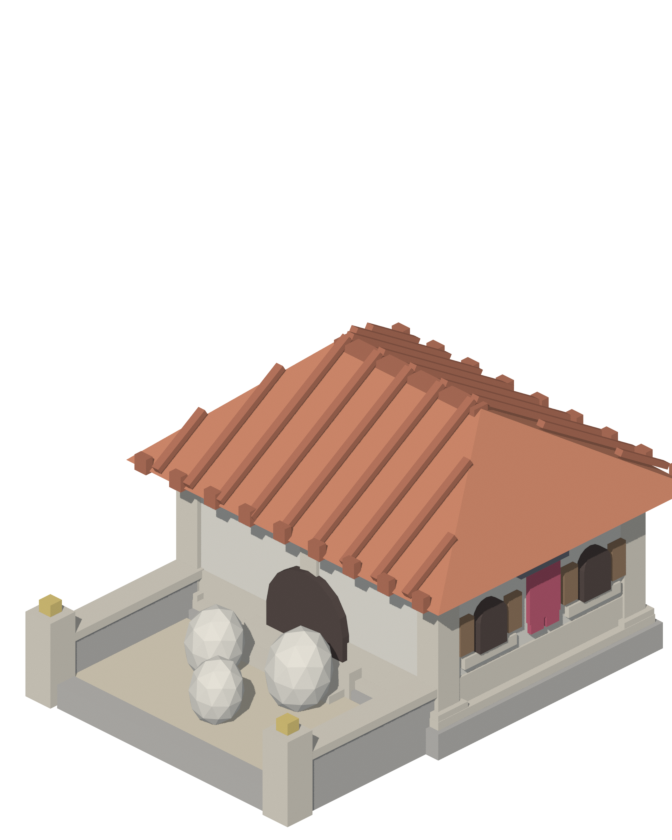
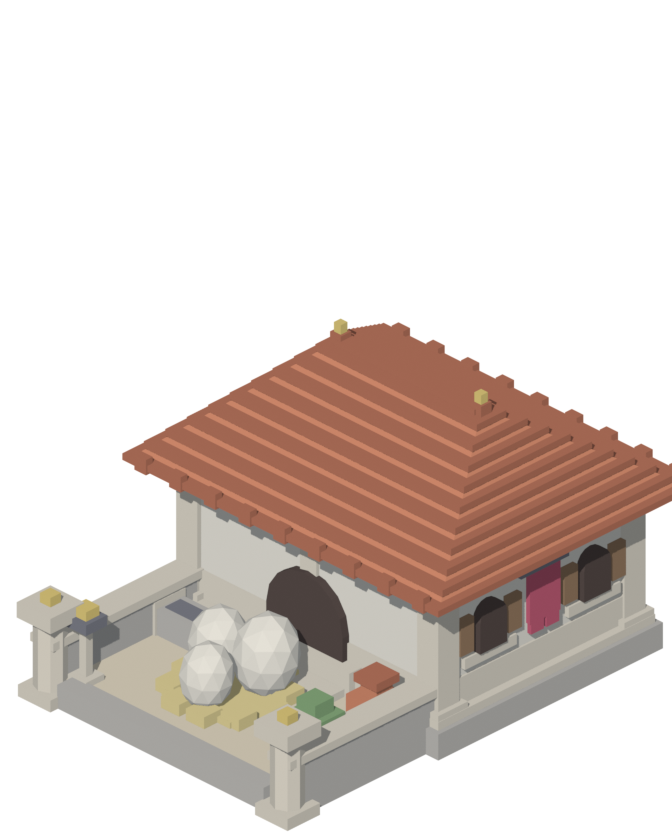
The roof, rebuilt as courses; and clutter that has a job
The ribs running down the slope were wrong in a way that only shows on a hip
roof. A hip's slope is a trapezoid, so every rib had to stop at a different
height, and their cut ends stood proud of the hip line in mid air — a staircase
of snapped sticks laid over the tiles. Shortening each rib was arithmetically
right and visually broken.

Courses parallel to the eaves have no ends to leave hanging. Each course is the
roof's own horizontal cross-section at that height, so it follows the hips
exactly, for free, at any footprint and any ridge fraction. That is the
difference between a rule that happens to work on this building and one that
will still work on the next thirty.

New parts: acroterion (ridge-end ornaments), column (eight-sided — six reads as
a post, sixteen leaves the art style), pot, plant, trough, brazier, nest,
plaque, pergola.

The pergola is in the kit and NOT on this building. It fitted the court and
covered the eggs and the doorway both, and the eggs are the entire reason this
building is recognisable at a glance. More detail is worth having exactly as
long as it costs nothing that already reads; past that it is subtraction wearing
the clothes of addition. Same reason the brazier moved to the gate: anything
tall on the near-left sits directly on the line from camera to arch.

The brazier is also stone now except for its bowl. Iron is the coldest colour in
the palette and a whole brazier of it read as a blue machine parked in a warm
[…]

diff --git a/tool/blender/render_building.py b/tool/blender/render_building.py
@@ -71,6 +71,8 @@ PALETTE = {
     'dark': (0.11, 0.08, 0.07),        # an opening, read as depth
     'banner': (0.62, 0.13, 0.20),      # the one saturated cloth per building
     'sand': (0.84, 0.74, 0.56),        # trodden ground inside a court
+    'straw': (0.86, 0.72, 0.34),       # bedding, thatch, nests
+    'leaf': (0.28, 0.45, 0.22),        # the only green; use it sparingly
 }
 
 
@@ -248,43 +250,139 @@ def wall_box(name, x, y, z, along, thick, height, material, facing='y'):
 
 
 def pantiles(name, x, y, z, sx, sy, h, ridge=0.45, key='tile_dark',
-             overhang=0.3, pitch=0.16):
-    """Tile courses running down a hip roof's two long slopes.
+             overhang=0.3, courses=10, lip=0.04):
+    """Tile courses stepping up a hip roof, parallel to the eaves.
 
     The roof is the largest surface on any of these buildings, and flat it is a
-    plate of colour. Ribbed, it is a roof.
+    plate of colour.
 
-    Each rib is SHORTENED by how far out it sits, because a hip roof's slope is
-    a trapezoid: a rib of full length out near the corner would hang off the
-    side. Solving for that per rib is also what makes the tiling converge
-    towards the ridge the way a real hip roof does.
+    The first attempt ran ribs DOWN the slope, the way a real pantile does, and
+    it looked broken: on a hip the slope is a trapezoid, so each rib had to stop
+    at a different height, and their ends stood proud of the hip line in mid
+    air — a staircase of snapped sticks. Courses have no ends to leave hanging.
+    Each one is the roof's own horizontal cross-section at that height, so it
+    follows the hips exactly, for free, at any footprint.
     """
     sx += overhang * 2
     sy += overhang * 2
-    r = sx * ridge / 2
-    run = sy / 2
-    length = math.hypot(run, h)
-    alpha = math.atan2(h, run)                 # the pitch, off horizontal
+    long_y = sy >= sx
+    r = (sy if long_y else sx) * ridge / 2
 
-    n = max(3, int(sx / pitch) // 2)
-    for i in range(n + 1):
-        rx = -sx / 2 + sx * i / n
-        # How far up this rib may go before the trapezoid narrows past it.
-        span = sx / 2 - r
-        frac = 1.0 if span <= 0 else ((sx / 2 - abs(rx)) / span)
-        frac = max(0.0, min(1.0, frac))
-        if frac < 0.05:
-            continue
-        ell = length * frac
-        for sign in (-1, 1):
-            ob = box(f'{name}_{i}_{sign}', 0, 0, 0,
-                     pitch * 0.42, ell, 0.05, mat(key))
-            ob.rotation_euler = (sign * alpha, 0, 0)
-            ob.location = (
-                x + rx,
-                y + sign * (-sy / 2 + (ell / 2) * math.cos(alpha)),
-                z + (ell / 2) * math.sin(alpha) + 0.03,
-            )
+    for i in range(courses):
+        f = i / courses
+        # The roof's cross-section at this height: it narrows to the ridge on
+        # the short axis and to the ridge's own length on the long one.
+        if long_y:
+            hx = (sx / 2) * (1 - f)
+            hy = sy / 2 - (sy / 2 - r) * f
+        else:
+            hx = sx / 2 - (sx / 2 - r) * f
+            hy = (sy / 2) * (1 - f)
+        if hx <= 0.06 or hy <= 0.06:
+            break
+        box(f'{name}_{i}', x, y, z + f * h,
+            2 * hx + lip, 2 * hy + lip, 0.055, mat(key))
+
+
+def acroterion(name, x, y, z, sx, sy, ridge=0.45, overhang=0.3, key='gold'):
+    """The ornaments capping the ends of a ridge. Two of them, and the roofline
+    stops just ending and starts finishing."""
+    sx += overhang * 2
+    sy += overhang * 2
+    long_y = sy >= sx
+    r = (sy if long_y else sx) * ridge / 2
+    for sign in (-1, 1):
+        ax = x if long_y else x + sign * r
+        ay = y + sign * r if long_y else y
+        box(f'{name}_stem_{sign}', ax, ay, z - 0.06, 0.11, 0.11, 0.12,
+            mat('tile_dark'))
+        box(f'{name}_{sign}', ax, ay, z + 0.06, 0.07, 0.07, 0.08, mat(key))
+
+
+def column(name, x, y, z, r, h, key='travertine', sides=8):
+    """A round column, faceted. Eight sides: at six it reads as a post, at
+    sixteen the facets stop showing and it leaves the art style."""
+    bpy.ops.mesh.primitive_cylinder_add(vertices=sides, radius=r, depth=h,
+                                        location=(x, y, z + h / 2))
+    ob = bpy.context.object
+    ob.name = name
+    ob.data.materials.append(mat(key))
+    for p in ob.data.polygons:
+        p.use_smooth = False
+    box(f'{name}_base', x, y, z, r * 2.6, r * 2.6, 0.1, mat(key))
+    box(f'{name}_cap', x, y, z + h - 0.11, r * 2.7, r * 2.7, 0.13, mat(key))
+    return ob
+
+
+def pot(name, x, y, z, r=0.16, h=0.42, key='tile'):
+    """An amphora, in four blocks. Clutter with a job: it is the only thing in
+    the kit that says PEOPLE work here."""
+    box(f'{name}_foot', x, y, z, r * 0.9, r * 0.9, 0.05, mat('tile_dark'))
+    box(f'{name}_belly', x, y, z + 0.04, r * 2, r * 2, h * 0.55, mat(key))
+    box(f'{name}_neck', x, y, z + 0.04 + h * 0.55, r * 1.05, r * 1.05, h * 0.3,
+        mat(key))
+    box(f'{name}_rim', x, y, z + 0.02 + h * 0.85, r * 1.5, r * 1.5, 0.07,
+        mat('tile_dark'))
+
+
+def brazier(name, x, y, z, h=0.62, key='iron'):
+    """A standing fire. The only light source in the palette, and the reason a
+    doorway at dusk reads as somewhere you would actually walk in."""
+    # Stone stem, iron bowl. Iron is the coldest colour in the palette, and a
+    # whole brazier of it reads as a blue machine standing in a warm courtyard.
+    # Keep it to the one part that has to look like metal.
+    box(f'{name}_foot', x, y, z, 0.19, 0.19, 0.05, mat('travertine'))
+    box(f'{name}_stem', x, y, z + 0.04, 0.07, 0.07, h, mat('travertine'))
+    box(f'{name}_bowl', x, y, z + h, 0.22, 0.22, 0.09, mat(key))
+    box(f'{name}_fire', x, y, z + h + 0.07, 0.14, 0.14, 0.1, mat('gold'))
+
+
+def pergola(name, x, y, z, sx, sy, h=1.0, posts=2, key='oak'):
+    """Posts and cross-beams over a yard. Roofless on purpose: it shades the
+    court without hiding what is IN the court, which is the whole point of
+    having an open court in the first place."""
+    for sxs in (-1, 1):
+        for sys in (-1, 1):
+            box(f'{name}_post_{sxs}_{sys}', x + sxs * sx / 2, y + sys * sy / 2,
+                z, 0.14, 0.14, h, mat(key))
+    for sys in (-1, 1):
+        box(f'{name}_beam_{sys}', x, y + sys * sy / 2, z + h - 0.1,
+            sx + 0.4, 0.11, 0.12, mat(key))
+    for i in range(posts * 2 + 1):
+        bx = x - sx / 2 + sx * i / (posts * 2)
+        box(f'{name}_rafter_{i}', bx, y, z + h, 0.08, sy + 0.5, 0.08,
+            mat(key))
+
+
+def nest(name, x, y, z, r, key='straw'):
+    """A ring of straw. Eggs lying on bare ground are eggs someone dropped."""
+    n = 10
+    for i in range(n):
+        a = 2 * math.pi * i / n
+        box(f'{name}_{i}', x + r * math.cos(a), y + r * math.sin(a), z,
+            0.19, 0.19, 0.1, mat(key))
+    box(f'{name}_bed', x, y, z, r * 1.7, r * 1.7, 0.05, mat(key))
+
+
+def plant(name, x, y, z, r=0.13, key='leaf'):
+    """A potted shrub. Green is the rarest colour in the palette on purpose —
+    two of these read as tended, five read as a garden centre."""
+    box(f'{name}_pot', x, y, z, r * 2, r * 2, 0.18, mat('tile'))
+    box(f'{name}_rim', x, y, z + 0.16, r * 2.3, r * 2.3, 0.05,
+        mat('tile_dark'))
+    box(f'{name}_bush', x, y, z + 0.2, r * 2.4, r * 2.4, 0.2, mat(key))
+    box(f'{name}_top', x, y, z + 0.38, r * 1.5, r * 1.5, 0.14, mat(key))
+
+
+def trough(name, x, y, z, sx, sy, key='ashlar'):
+    """A stone water trough. Livestock needs drinking, and a building that
+    shows the chore reads as used rather than as displayed."""
+    box(f'{name}_body', x, y, z, sx, sy, 0.22, mat(key))
+    box(f'{name}_water', x, y, z + 0.18, sx - 0.12, sy - 0.12, 0.05,
+        mat('iron'))
+    for sign in (-1, 1):
+        box(f'{name}_end_{sign}', x + sign * sx / 2, y, z,
+            0.07, sy + 0.04, 0.28, mat('travertine'))
 
 
 def dentils(name, x, y, z, sx, sy, key='travertine', pitch=0.2, size=0.09):
@@ -452,10 +550,14 @@ def breeding_hut(w, h):
         0.17, 0.1, 0.2, mat('travertine'))
     steps('steps', 0, face_y - 0.06, 0.0, door_w + 0.3)
 
+    box('plaque', 0, face_y - 0.01, 0.22 + door_h + 0.2, 0.52, 0.06, 0.18,
+        mat('travertine'))
+
     roof_z = 0.22 + wall_h
     hip_roof('roof', 0, body_y, roof_z, body_w, body_d, 0.85)
     pantiles('tiles', 0, body_y, roof_z, body_w, body_d, 0.85)
     antefixes('antefix', 0, body_y, roof_z - 0.02, body_w + 0.6, body_d + 0.6)
+    acroterion('acro', 0, body_y, roof_z + 0.85, body_w, body_d)
 
     # Corner pilasters — travertine, not timber. Timber corners drag the whole
     # thing back to a Northern hut; stone corners under a tile roof are Roman.
@@ -493,17 +595,33 @@ def breeding_hut(w, h):
             0.24, court_d, 0.07, mat('travertine'))
     front_y = court_y - court_d / 2 + 0.09
     for sx in (-1, 1):
-        box('gatepost', sx * (court_w / 2 - 0.09), front_y, 0,
-            0.26, 0.26, 0.72, mat('travertine'))
-        box('finial', sx * (court_w / 2 - 0.09), front_y, 0.72,
-            0.12, 0.12, 0.1, mat('gold'))
-    # The threshold between the posts stays LOW: the eggs are what the building
-    # says about itself, and nothing may stand in front of them.
+        column(f'gatecol{sx}', sx * (court_w / 2 - 0.09), front_y, 0,
+               0.13, 0.78)
+        box(f'finial{sx}', sx * (court_w / 2 - 0.09), front_y, 0.78,
+            0.11, 0.11, 0.1, mat('gold'))
+    # The threshold between the columns stays LOW: the eggs are what the
+    # building says about itself, and nothing may stand in front of them.
     box('threshold', 0, front_y, 0, court_w - 0.5, 0.18, 0.2, mat('ashlar'))
 
-    egg('egg_a', -0.42, court_y + 0.20, 0.16, 0.23, mat('stucco'))
-    egg('egg_b', 0.34, court_y + 0.32, 0.16, 0.26, mat('stucco'))
-    egg('egg_c', 0.06, court_y - 0.26, 0.16, 0.21, mat('stucco'))
+    # NO pergola here, though the kit has one. It fitted the court and covered
+    # the eggs and the doorway both — and the eggs are the entire reason this
+    # building is recognisable. More detail is only ever worth having while it
+    # costs nothing that already reads. Keep it for a building with room.
+    nest('nest', -0.12, court_y + 0.06, 0.16, 0.42)
+    egg('egg_a', -0.36, court_y + 0.18, 0.20, 0.23, mat('stucco'))
+    egg('egg_b', 0.06, court_y + 0.26, 0.20, 0.26, mat('stucco'))
+    egg('egg_c', -0.10, court_y - 0.20, 0.20, 0.21, mat('stucco'))
+
+    # The working clutter, kept to the edges so the middle stays the eggs.
+    pot('pot_a', court_w / 2 - 0.36, court_y + court_d * 0.32, 0.16)
+    plant('plant_a', court_w / 2 - 0.34, court_y - court_d * 0.10, 0.16)
+    # The brazier goes to the GATE, not beside the door: anything tall on the
+    # near-left stands directly across the line from the camera to the arch,
+    # and the arch is half of what makes this building legible.
+    trough('trough', -court_w / 2 + 0.46, court_y + court_d * 0.28, 0.16,
+           0.58, 0.28)
+    brazier('brazier', -court_w / 2 + 0.30, court_y - court_d * 0.34, 0.16,
+            h=0.46)
 
 
 PRESETS = {'breeding_hut': (breeding_hut, 3, 4)}
